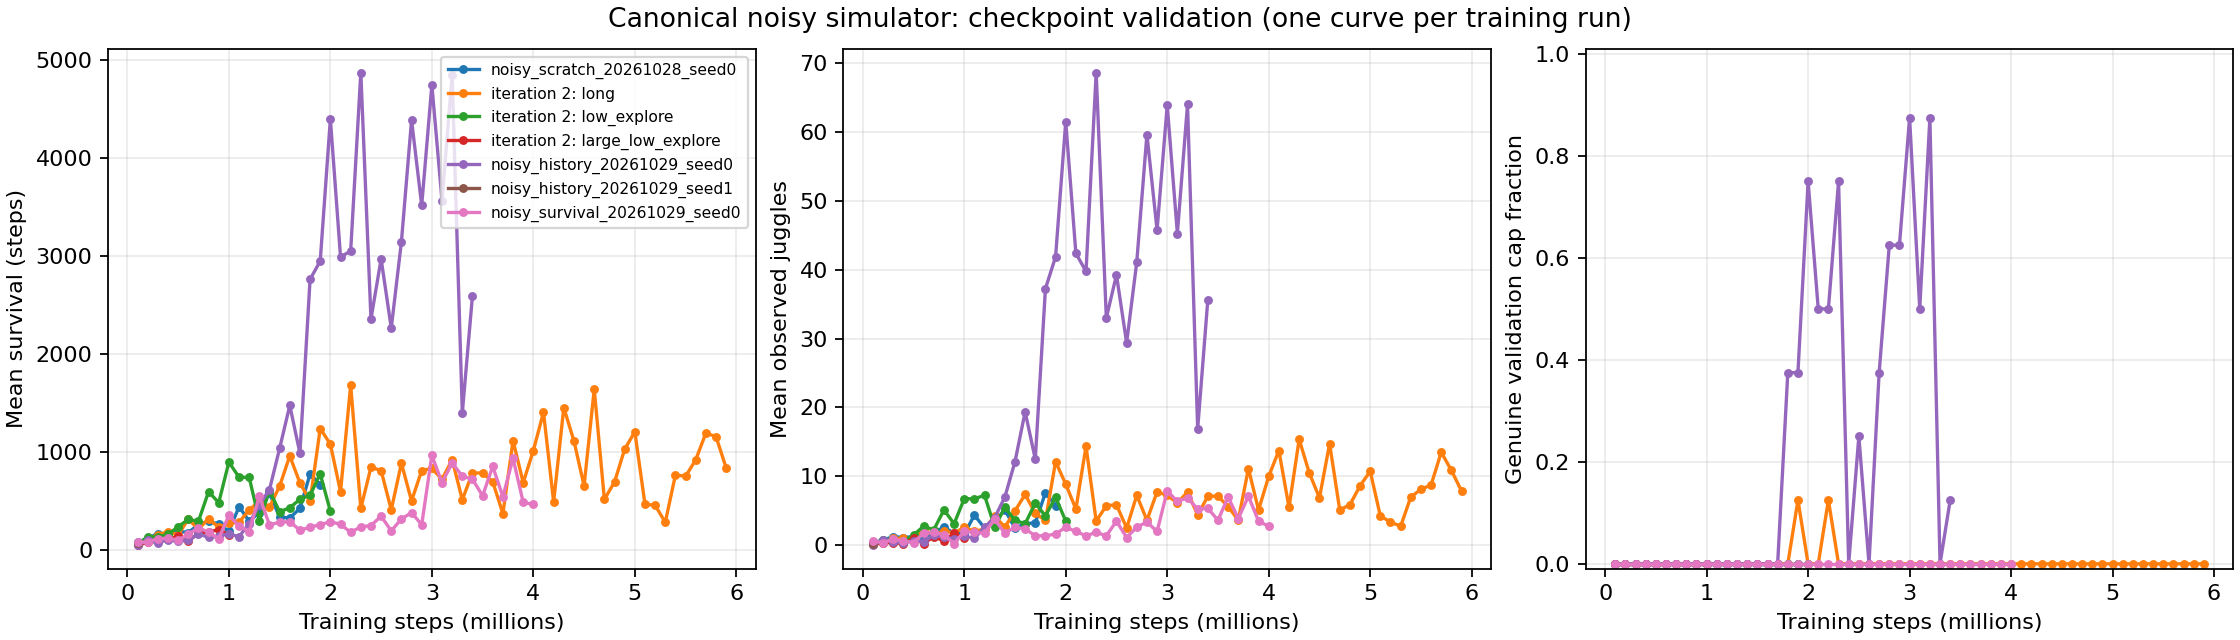
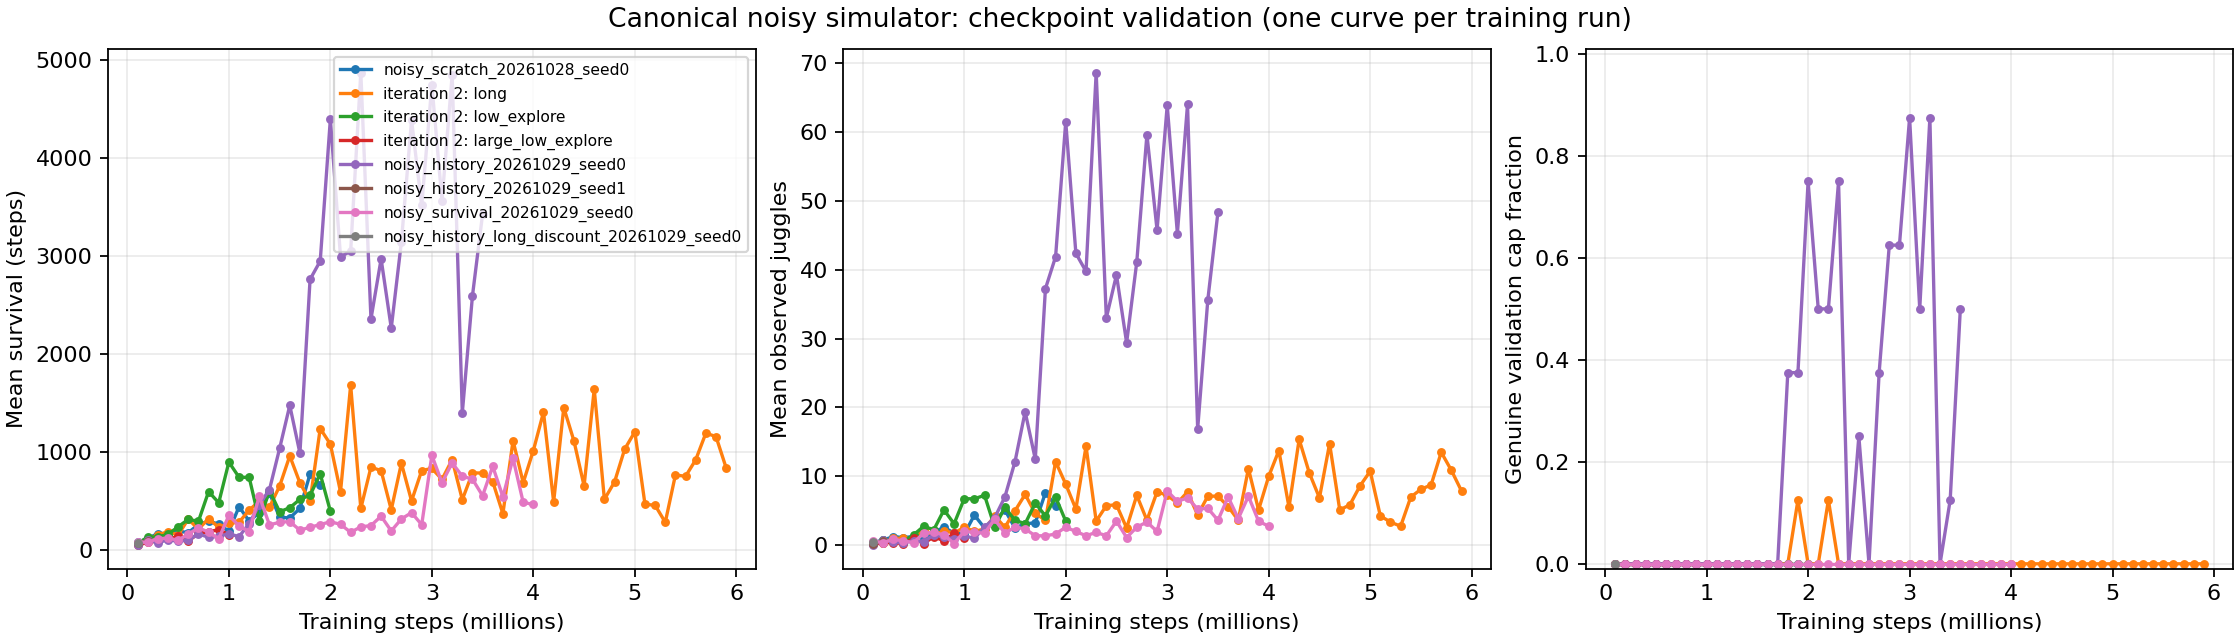
Verify long-discount updates and queue fixed history 4M benchmark

Changed region(s): [[0.125, 0.0938, 0.3438, 0.4062]]

diff --git a/notes/scratch/experiments/2026-10-29_21-30_history-discount-first-checkpoint.md b/notes/scratch/experiments/2026-10-29_21-30_history-discount-first-checkpoint.md
@@ -1,0 +1,19 @@
+# Longer-discount history: first checkpoint and next fixed benchmark
+
+Recorded 2026-10-29 16:30:02 -0500. The gamma .999 trial's first saved checkpoint confirms the intended scratch runtime and real learning updates; early validation remains weak. All three history learners continue.
+
+Checkpoint `runs/td3/noisy_history_long_discount_20261029_seed0/train/checkpoint_100000`: global step100,000,62,500critic updates,48actor and72critic optimizer-state entries. Saved args retain gamma .999, model_path null and history warm start false. Saved environment passes the canonical comparison with only bookkeeping seed normalized; metadata modehistory,50×8latest-frame/action memory. [Portable state/hash/config/evaluation evidence](../../../docs/juggling-history-long-discount-first-checkpoint.json).
+
+Completed validation: eight reused seeds10000–10007,cap5000,mean62.75,median58,0.5physical-trajectory juggles,0/8caps. This is a pipeline check, not evidence that longer discount improves juggling. Seed0's original history trial also learned slowly at first. Do not stop these new scratch trials based on their initial random-policy behavior.
+
+## Queued fixed 4M benchmark
+
+A detached watcher1322650 is confirmed live, waiting for the original history seed0's complete `train/checkpoint_4000000/survival_eval/results.json`. It will validate the saved canonical config and evaluate that exact checkpoint, cap10000,32reused starts300000–300031,output `runs/td3/noisy_history_20261029_seed0/milestone_4m_benchmark/`. It is **waiting**, not a completed experiment. Source/log/status are sibling files `milestone_4m_watch.py`, `milestone_4m_watch.log`, `milestone_4m_status.json`. Same watcher logic that successfully completed E026, changing only checkpoint/output/status identifiers. It refuses existing output and records an error if training becomes terminal before the required checkpoint validation. No new policy initialization or selection by validation.
+
+Equivalent frozen evaluation after availability, in a new output directory:
+
+```sh
+.venv/bin/python -m scripts.td3.juggle_survival --run-dir runs/td3/noisy_history_20261029_seed0/train/checkpoint_4000000 --out-dir NEW_OUTPUT --scenario-set training --horizon 10000 --episodes 32 --seed-base 300000 --gif-steps 0
+```
+
+No new GIF from the weak100k policy. Latest verified clip remains [E025](../../../docs/experiment_logbook.md#e025); the current3M research candidate still has27/32independent20k failures (E026). No simulator, sensing, control or randomization changes and no new training launched in this task. Checks: actual checkpoint/optimizer/config inspection, completed validation output, live watcher and learner processes, saved-data report generation, relative links/images, anchors/TOCs and whitespace. Earlier implementation tests were not rerun.

diff --git a/docs/experiment_logbook.md b/docs/experiment_logbook.md
@@ -6,6 +6,7 @@ Entries and contents are ordered newest first; IDs remain permanent.
 
 ## Table of contents
 
+- [E030 — Longer-discount history first checkpoint confirms updates](#e030)
 - [E029 — History seed1 first checkpoint confirms updates, not replication success](#e029)
 - [E028 — Interrupt survival trial and launch longer-discount history](#e028)
 - [E027 — Baseline completes 6M; fresh history seed1 starts](#e027)
@@ -35,6 +36,16 @@ Entries and contents are ordered newest first; IDs remain permanent.
 - [E003 — Original-sensing fine-tuning regression](#e003)
 - [E002 — Clean-simulation iterations and failed transfer](#e002)
 - [E001 — Initial sustained-juggling studies](#e001)
+
+<a id="e030"></a>
+
+## E030 — 2026-10-29 16:30:02 -0500 — Longer-discount history first checkpoint confirms updates
+
+The gamma .999 history trial executes the intended learning updates but has no early validation caps.
+
+**Completed:** At100k,62,500critic updates and populated actor/critic optimizer states; gamma .999 and scratch/canonical guards verified from saved files. Eight reused validation starts: mean62.75,median58,0.5physical juggles,0/8caps at5k. [Portable evidence](juggling-history-long-discount-first-checkpoint.json), [detailed record](../notes/scratch/experiments/2026-10-29_21-30_history-discount-first-checkpoint.md). This verifies runtime, not the hypothesis or reliable juggling.
+
+**Waiting:** Fixed4M original-history benchmark watcher1322650 is live;32reused starts,10k cap. No result yet. Three history learners continue, no new training launch or simulator/DR changes. No new early-policy GIF. [A030](agent_logbook.md#a030).
 
 <a id="e029"></a>
 

diff --git a/docs/juggling-noisy-progress.md b/docs/juggling-noisy-progress.md
@@ -1,6 +1,6 @@
 # Noisy juggling progress
 
-Generated 2026-10-29T21:26:08.713005+00:00 from saved evaluations; no new rollouts.
+Generated 2026-10-29T21:30:03.705207+00:00 from saved evaluations; no new rollouts.
 
 Validation curves use repeatedly evaluated starts, not independent acceptance tests. Each point is an episode mean for one training seed. Check the CSV for episode counts, seeds and caps. Observed juggle counts use noisy camera positions and a direction-reversal filter. Contact timesteps are not distinct juggles. Cap fractions use the physical-trajectory heuristic when available, otherwise the legacy observed-count heuristic.
 
@@ -14,10 +14,10 @@ Validation curves use repeatedly evaluated starts, not independent acceptance te
 | noisy_iteration2_20261029_long | complete | 5,900,000 | 834.4 | 7.88 | 0.0% |
 | noisy_iteration2_20261029_low_explore | interrupted | 2,000,000 | 392.0 | 3.50 | 0.0% |
 | noisy_iteration2_20261029_large_low_explore | interrupted | 1,000,000 | 152.6 | 1.00 | 0.0% |
-| noisy_history_20261029_seed0 | training | 3,400,000 | 2593.1 | 35.62 | 12.5% |
-| noisy_history_20261029_seed1 | training | 100,000 | 64.2 | 0.25 | 0.0% |
+| noisy_history_20261029_seed0 | training | 3,500,000 | 3430.0 | 48.38 | 50.0% |
+| noisy_history_20261029_seed1 | training | 200,000 | 84.4 | 0.62 | 0.0% |
 | noisy_survival_20261029_seed0 | interrupted | 4,000,000 | 461.0 | 2.75 | 0.0% |
-| noisy_history_long_discount_20261029_seed0 | training | No saved validation | — | — | — |
+| noisy_history_long_discount_20261029_seed0 | training | 100,000 | 62.8 | 0.50 | 0.0% |
 
 Separate-start evaluations (selection and benchmark phases labeled):
 

diff --git a/docs/agent_logbook.md b/docs/agent_logbook.md
@@ -6,6 +6,7 @@ Entries and contents are ordered newest first; IDs remain permanent.
 
 ## Table of contents
 
+- [A030 — Verify discount-trial checkpoint and attach fixed 4M evaluator](#a030)
 - [A029 — Reallocate weaker trial and verify scratch-history learning](#a029)
 - [A028 — Reuse completed baseline allocation for scratch replication](#a028)
 - [A027 — Complete fixed 3M evaluation and lock a new independent test](#a027)
@@ -35,6 +36,14 @@ Entries and contents are ordered newest first; IDs remain permanent.
 - [A003 — Restore original sensing and matched comparison](#a003)
 - [A002 — Clean diagnostics and evaluation](#a002)
 - [A001 — Continuing-task implementation](#a001)
+
+<a id="a030"></a>
+
+## A030 — 2026-10-29 16:30:02 -0500 — Verify discount-trial checkpoint and attach fixed 4M evaluator
+
+Codex inspected the gamma .999 trial's actual optimizer state and attached the next fixed-milestone history evaluator.
+
+**Evidence:** [E030](experiment_logbook.md#e030), [detailed note](../notes/scratch/experiments/2026-10-29_21-30_history-discount-first-checkpoint.md). Saved model hash, gamma, scratch/config guards, update counters and early evaluation are preserved in portable JSON. Watcher1322650 is live and waiting for complete4M validation; it uses reused research starts and does not promote a checkpoint by validation. All three learners advance. No simulator or implementation modification and no additional training launch. Documentation/report checks pass; sustained reliability remains unsolved.
 
 <a id="a029"></a>
 

diff --git a/notes/scratch/experiments/INDEX.md b/notes/scratch/experiments/INDEX.md
@@ -96,3 +96,5 @@ Format: `- YYYY-MM-DD HH:MM | topic | one-sentence outcome | [file](path)`
 - 2026-10-29 21:21 | Baseline complete; history seed1 starts | Full6M baseline0/32caps; released allocation now trains history replication from random weights | [file](2026-10-29_21-21_baseline-complete-history-replication.md)
 
 - 2026-10-29 21:26 | Survival stop and history discount start | Survival interrupted after4M; selected mean811,0caps; fresh gamma.999 history running; seed1 actual updates confirmed | [file](2026-10-29_21-26_survival-stop-history-discount-start.md)
+
+- 2026-10-29 21:30 | History discount first checkpoint | Actual62,500critic updates; early mean62.75,0caps; fixed4M watcher queued | [file](2026-10-29_21-30_history-discount-first-checkpoint.md)
